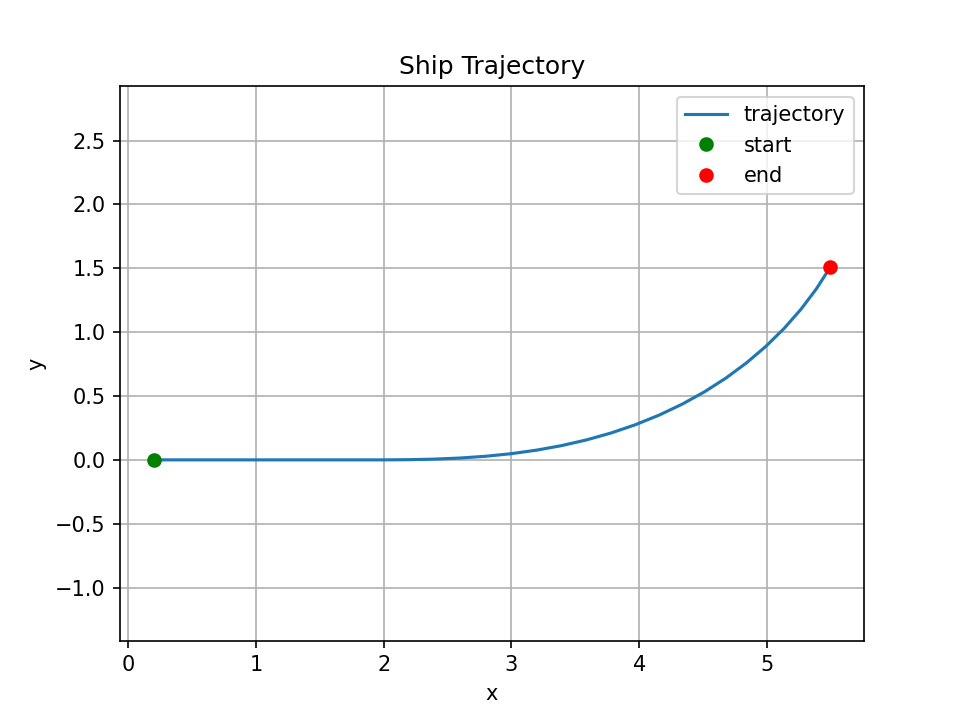
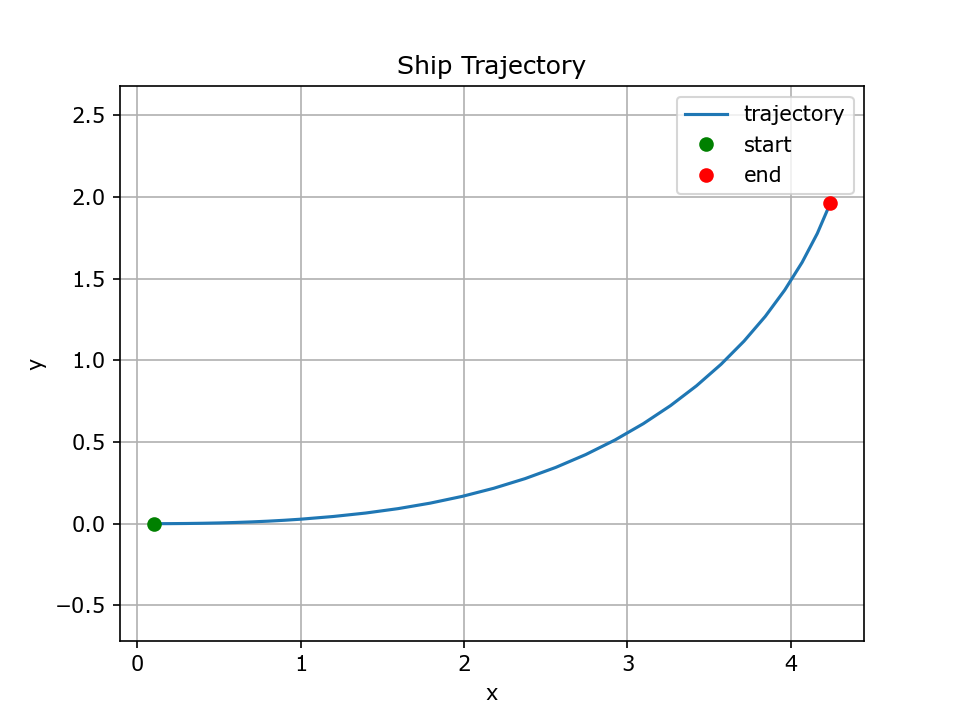
Code Formatting

diff --git a/examples/realtime_keyboard.py b/examples/realtime_keyboard.py
@@ -4,6 +4,12 @@ from minisim.control.command import ControlCommand
 from minisim.simulator import Simulator
 from minisim.ship import Ship
 
+DT = 0.1
+RUDDER_STEP = 0.03
+RUDDER_RETURN_RATE = 0.015
+SPEED_STEP = 0.05
+MAX_RUDDER = 0.3
+MAX_SPEED = 2.0
 WIDTH = 800
 HEIGHT = 600
 PIX_PER_METER = 20
@@ -51,35 +57,37 @@ def draw_trajectory(screen, history, cam_x, cam_y):
 def key_control():
     keys = pygame.key.get_pressed()
     if keys[pygame.K_LEFT]:
-        kcommand.rudder -= 0.03
+        kcommand.rudder -= RUDDER_STEP
     else :
         if keys[pygame.K_RIGHT]:
-            kcommand.rudder += 0.03
+            kcommand.rudder += RUDDER_STEP
         else:
-            if keys[pygame.K_UP]:
-                kcommand.speed += 0.05
+            if kcommand.rudder > 0:
+                kcommand.rudder -= RUDDER_RETURN_RATE
+            		if kcommand.rudder < 0:
+                		kcommand.rudder = 0
             else:
-                if keys[pygame.K_DOWN]:
-                    kcommand.speed -= 0.05
-                else:
-                    if kcommand.rudder > 0:
-                        kcommand.rudder -= 0.015
-                        if kcommand.rudder < 0:
-                            kcommand.rudder = 0
-                    else:
-                        if kcommand.rudder < 0:
-                            kcommand.rudder += 0.015
-                            if kcommand.rudder > 0:
-                                kcommand.rudder = 0
+                if kcommand.rudder < 0:
+                    kcommand.rudder += RUDDER_RETURN_RATE
+                		if kcommand.rudder > 0:
+                    		kcommand.rudder = 0
+            
+    
+    if keys[pygame.K_UP]:
+        kcommand.speed += SPEED_STEP
+    else:
+        if keys[pygame.K_DOWN]:
+            kcommand.speed -= SPEED_STEP
+
 
     if kcommand.speed < 0 :
         kcommand.speed = 0
-    if kcommand.speed > 2:
-        kcommand.speed = 2
-    if kcommand.rudder < -0.3:
-        kcommand.rudder = -0.3
-    if kcommand.rudder > 0.3:
-        kcommand.rudder = 0.3
+    if kcommand.speed > MAX_SPEED:
+        kcommand.speed = MAX_SPEED
+    if kcommand.rudder < - MAX_RUDDER:
+        kcommand.rudder = - MAX_RUDDER
+    if kcommand.rudder > MAX_RUDDER:
+        kcommand.rudder = MAX_RUDDER
         
 
 
@@ -111,7 +119,7 @@ def main():
         key_control()
 
             
-        ksim.step(0.1, kcommand)
+        ksim.step(DT, kcommand)
 
         cam_x = kship.state.x
         cam_y = kship.state.y

diff --git a/main.py b/main.py
@@ -2,7 +2,7 @@ from minisim.ship import Ship
 from minisim.simulator import Simulator
 from minisim.render.plot2d import plot_trajectory, plot_state_history
 from minisim.control.command import ControlCommand
-from minisim.control.scripts import rudder_step_script
+from minisim.control.scripts import rudder_step_script, speed_step_script
 
 import math
 
@@ -20,6 +20,7 @@ def main():
     
     for i in range(30):
         command.rudder = rudder_step_script(i)
+        command.speed = speed_step_script(i)
         sim.step(dt, command)
 
     for item in sim.history:

diff --git a/minisim/render/plot2d.py b/minisim/render/plot2d.py
@@ -31,17 +31,20 @@ def plot_state_history(history):
 	headings = []
 	turn_rates = []
 	rudders = []
+	speeds = []
 	
 	for item in history:
 		ts.append(item["time"])
 		headings.append(item["heading"])
 		turn_rates.append(item["turn_rate"])
 		rudders.append(item["rudder"])
+		speeds.append(item["speed"])
 
 	plt.figure()
 	plt.plot(ts, headings, label="heading")
 	plt.plot(ts, turn_rates, label="turn_rate")
 	plt.step(ts, rudders, where="post", label="rudder")
+	plt.step(ts, speeds, where ="post", label="speed")
 
 	plt.xlabel("time")
 	plt.ylabel("value")

diff --git a/minisim/control/scripts.py b/minisim/control/scripts.py
@@ -1,5 +1,11 @@
 def rudder_step_script(step_index):
     if step_index < 10:
-        return 0.0
+        return 0.1
     else:
         return 0.5
+        
+def speed_step_script(step_index):
+    if step_index < 10:
+        return 1.0
+    else:
+        return 2.0
